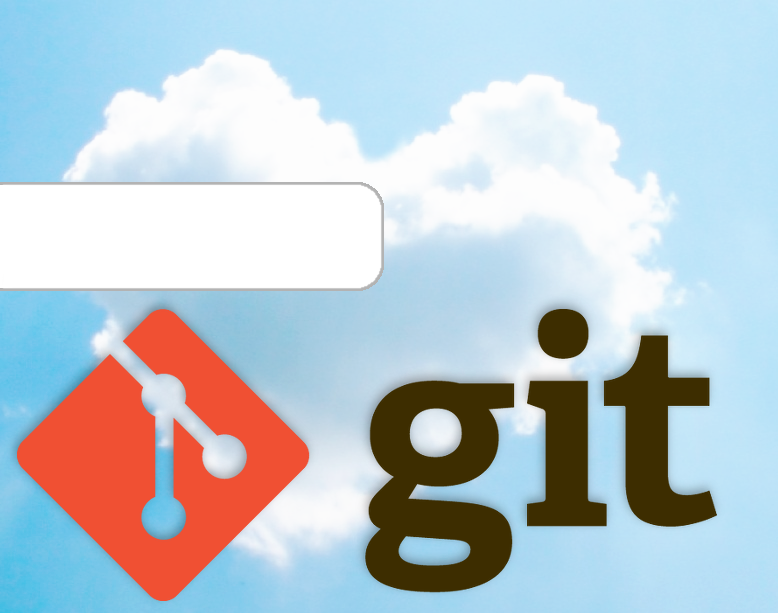
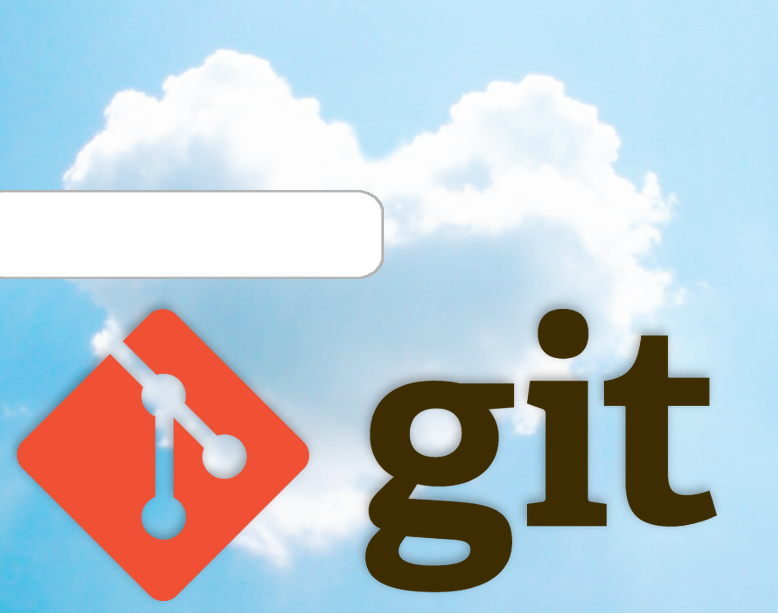
Scaled front image correctly...

Changed region(s): [[0.0, 0.4339, 0.4936, 0.4959], [0.0, 0.279, 0.4936, 0.3409]]

diff --git a/src/git-basics.rst b/src/git-basics.rst
@@ -1,6 +1,6 @@
-======
-Basics
-======
+==========
+Git Basics
+==========
 
 .. figure:: /_static/gitcloud.png
    :class: fill
